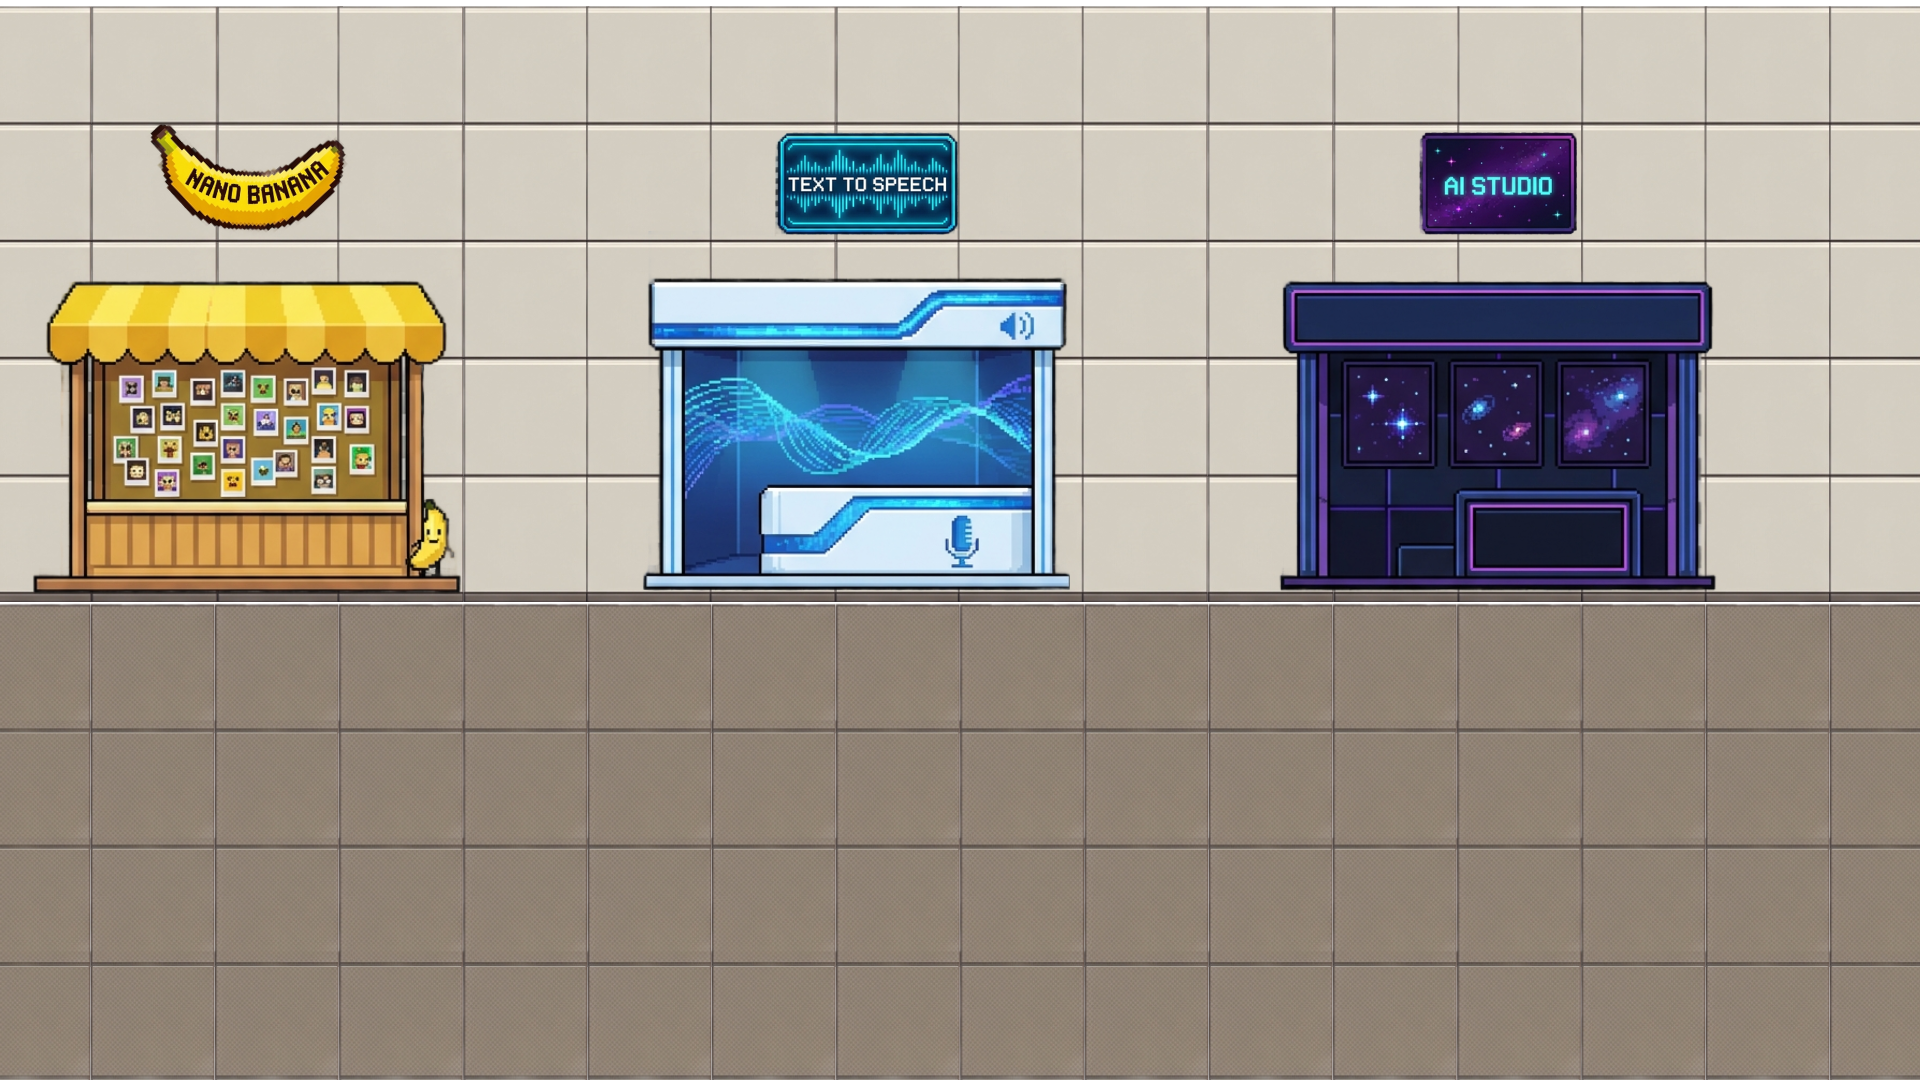
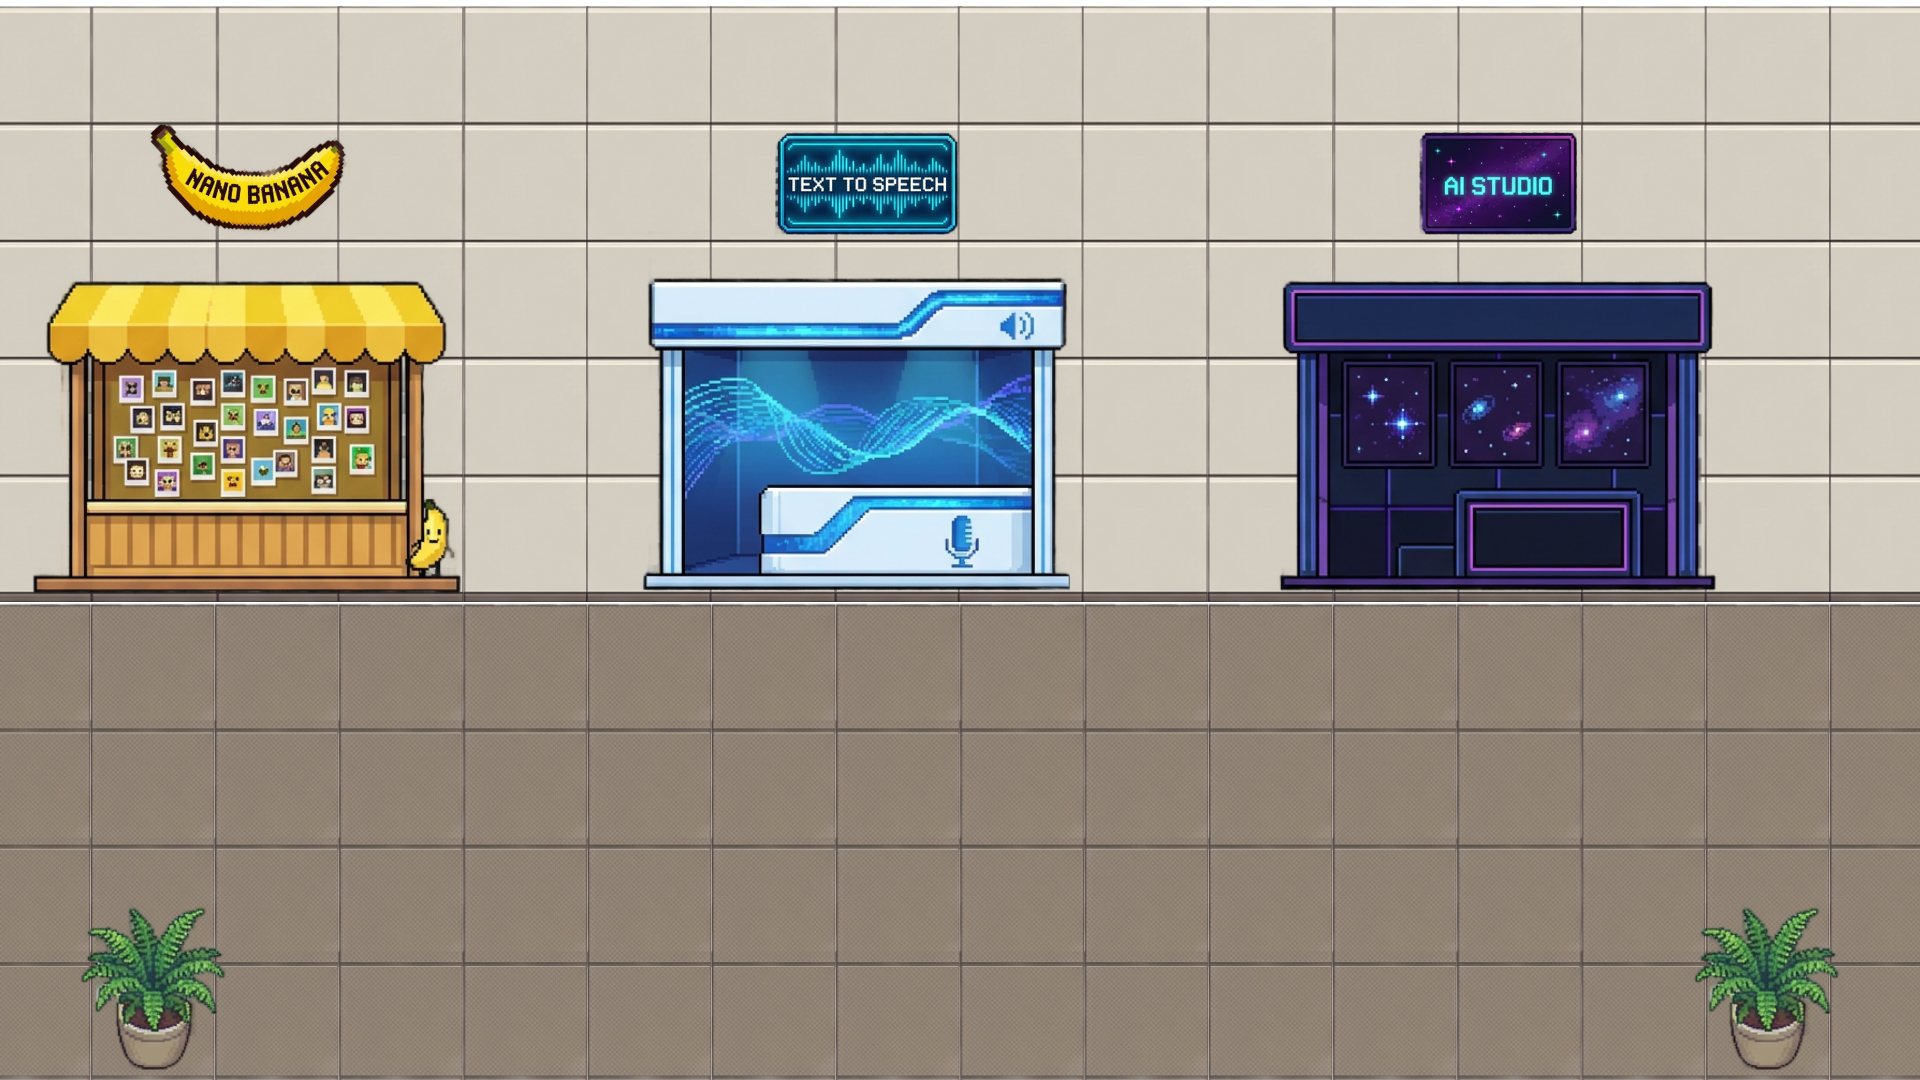
add map 4 and new map 3

Changed region(s): [[0.875, 0.825, 0.9688, 1.0], [0.0312, 0.825, 0.125, 1.0]]

diff --git a/google-ai-tour/components/Map4Scene.ts b/google-ai-tour/components/Map4Scene.ts
@@ -1,0 +1,133 @@
+import * as Phaser from 'phaser';
+
+export class Map4Scene extends Phaser.Scene {
+    private playerContainer!: Phaser.GameObjects.Container;
+    private playerSprite!: Phaser.GameObjects.Sprite;
+    private cursors!: Phaser.Types.Input.Keyboard.CursorKeys;
+    private playerName: string = 'User';
+
+    private robotEnding!: Phaser.GameObjects.Sprite;
+    private interactPrompt!: Phaser.GameObjects.Text;
+
+    // UI Elements
+    private dialogBox!: Phaser.GameObjects.Container;
+    private dialogText!: Phaser.GameObjects.Text;
+    private portraitSprite!: Phaser.GameObjects.Sprite;
+    private isDialogActive: boolean = false;
+    private gradientGraphics!: Phaser.GameObjects.Graphics;
+
+    constructor() {
+        super('Map4Scene');
+    }
+
+    init(data: any) {
+        if (data.playerName) this.playerName = data.playerName;
+    }
+
+    preload() {
+        this.load.image('map4_bg', '/assets/Map4.png');
+        this.load.image('robot_ending', '/assets/robotEnding.png');
+        this.load.image('player_robot', '/assets/player_robot.png'); // reuse player asset
+        this.load.image('gogole_portrait', '/assets/portrait_gogole.png');
+    }
+
+    create() {
+        // 1. Background
+        this.add.image(960, 540, 'map4_bg');
+
+        // 2. Robot Ending NPC
+        this.robotEnding = this.add.sprite(960, 540, 'robot_ending').setScale(0.8);
+        this.robotEnding.setDepth(540);
+
+        // 3. Player Container
+        this.playerContainer = this.add.container(200, 800);
+        this.physics.world.enable(this.playerContainer);
+        this.playerSprite = this.add.sprite(0, 0, 'player_robot');
+        this.playerContainer.add(this.playerSprite);
+
+        const body = this.playerContainer.body as Phaser.Physics.Arcade.Body;
+        body.setCollideWorldBounds(true);
+        body.setSize(80, 80);
+        body.setOffset(-40, -40);
+
+        // Camera setup - Fixed Camera for Map 4 as well to maintain premium look
+        this.cameras.main.centerOn(960, 540);
+
+        // Floating effect for player
+        this.tweens.add({
+            targets: this.playerSprite,
+            y: '-=15',
+            duration: 1500,
+            yoyo: true,
+            repeat: -1,
+            ease: 'Sine.easeInOut'
+        });
+
+        // 4. UI Setup
+        this.createDialogUI();
+
+        this.interactPrompt = this.add.text(960, 400, '[ENTER] Bicara', {
+            fontSize: '24px', color: '#ffffff', backgroundColor: '#4285F4', padding: { x: 15, y: 8 }
+        }).setOrigin(0.5).setAlpha(0).setDepth(2000);
+
+        if (this.input.keyboard) {
+            this.cursors = this.input.keyboard.createCursorKeys();
+            this.input.keyboard.on('keydown-ENTER', () => {
+                if (this.isDialogActive) return;
+                const dist = Phaser.Math.Distance.Between(this.playerContainer.x, this.playerContainer.y, this.robotEnding.x, this.robotEnding.y);
+                if (dist < 200) {
+                    this.startEndingDialogue();
+                }
+            });
+        }
+    }
+
+    private createDialogUI() {
+        this.gradientGraphics = this.add.graphics().setScrollFactor(0).setDepth(999).setAlpha(0);
+        this.gradientGraphics.fillGradientStyle(0x000000, 0x000000, 0x000000, 0x000000, 0, 0, 0.85, 0.85);
+        this.gradientGraphics.fillRect(0, 720, 1920, 360);
+
+        this.dialogBox = this.add.container(960, 920).setScrollFactor(0).setAlpha(0).setDepth(1000);
+        const bg = this.add.rectangle(0, 0, 1500, 220, 0x000000, 0.8).setStrokeStyle(4, 0x4285F4);
+        this.dialogText = this.add.text(0, 0, '', {
+            fontSize: '42px', color: '#ffffff', wordWrap: { width: 1380, useAdvancedWrap: true }, fontStyle: 'bold'
+        }).setOrigin(0.5);
+
+        this.portraitSprite = this.add.sprite(-600, -320, 'gogole_portrait').setScale(4.5);
+        this.dialogBox.add([bg, this.dialogText, this.portraitSprite]);
+    }
+
+    private startEndingDialogue() {
+        this.isDialogActive = true;
+        this.tweens.add({ targets: [this.dialogBox, this.gradientGraphics], alpha: 1, duration: 300 });
+        this.dialogText.setText(`Halo ${this.playerName}! Selamat kamu telah sampai di akhir perjalanan...`);
+        this.portraitSprite.setAlpha(1);
+    }
+
+    update() {
+        if (!this.playerContainer || !this.cursors) return;
+        const body = this.playerContainer.body as Phaser.Physics.Arcade.Body;
+        body.setVelocity(0);
+        if (this.isDialogActive) return;
+
+        const speed = 500;
+        let vx = 0, vy = 0;
+        if (this.cursors.left.isDown) { vx = -1; this.playerSprite.setFlipX(true); }
+        else if (this.cursors.right.isDown) { vx = 1; this.playerSprite.setFlipX(false); }
+        if (this.cursors.up.isDown) vy = -1;
+        else if (this.cursors.down.isDown) vy = 1;
+
+        if (vx !== 0 && vy !== 0) { const norm = 0.707; vx *= norm; vy *= norm; }
+        body.setVelocityX(vx * speed);
+        body.setVelocityY(vy * speed);
+
+        this.playerContainer.setDepth(this.playerContainer.y);
+
+        const dist = Phaser.Math.Distance.Between(this.playerContainer.x, this.playerContainer.y, this.robotEnding.x, this.robotEnding.y);
+        if (dist < 200) {
+            this.interactPrompt.setAlpha(1).setPosition(this.robotEnding.x, this.robotEnding.y - 150);
+        } else {
+            this.interactPrompt.setAlpha(0);
+        }
+    }
+}

diff --git a/google-ai-tour/components/Map3Scene.ts b/google-ai-tour/components/Map3Scene.ts
@@ -663,6 +663,12 @@ vibe : robotnya akan bergerak cukup kencang dan efisien dalam membersihkan sampa
         const distStudio = Phaser.Math.Distance.Between(this.playerContainer.x, this.playerContainer.y, this.robotStudio.x, this.robotStudio.y);
         const cam = this.cameras.main;
 
+        // Transition to Map 4
+        if (this.questStep === 3 && this.playerContainer.x > 1850) {
+            this.scene.start('Map4Scene', { playerName: this.playerName });
+            return;
+        }
+
         if (distNano < 150 && this.questStep === 0) {
             this.interactPrompt.setText('[ENTER] Nano Banana').setPosition(this.robotNano.x - cam.scrollX, this.robotNano.y - 150 - cam.scrollY).setAlpha(1);
         } else if (distTTS < 150 && this.questStep === 1) {

diff --git a/google-ai-tour/components/GameBridge.tsx b/google-ai-tour/components/GameBridge.tsx
@@ -5,6 +5,7 @@ import { phaserConfig } from './PhaserConfig';
 import { MainScene } from './MainScene';
 import { GeminiScene } from './GeminiScene';
 import { Map3Scene } from './Map3Scene';
+import { Map4Scene } from './Map4Scene';
 
 export default function GameBridge() {
     const containerRef = useRef<HTMLDivElement>(null);
@@ -16,7 +17,7 @@ export default function GameBridge() {
         const config = {
             ...phaserConfig,
             parent: containerRef.current,
-            scene: [MainScene, GeminiScene, Map3Scene]
+            scene: [MainScene, GeminiScene, Map3Scene, Map4Scene]
         };
 
         gameRef.current = new Phaser.Game(config);